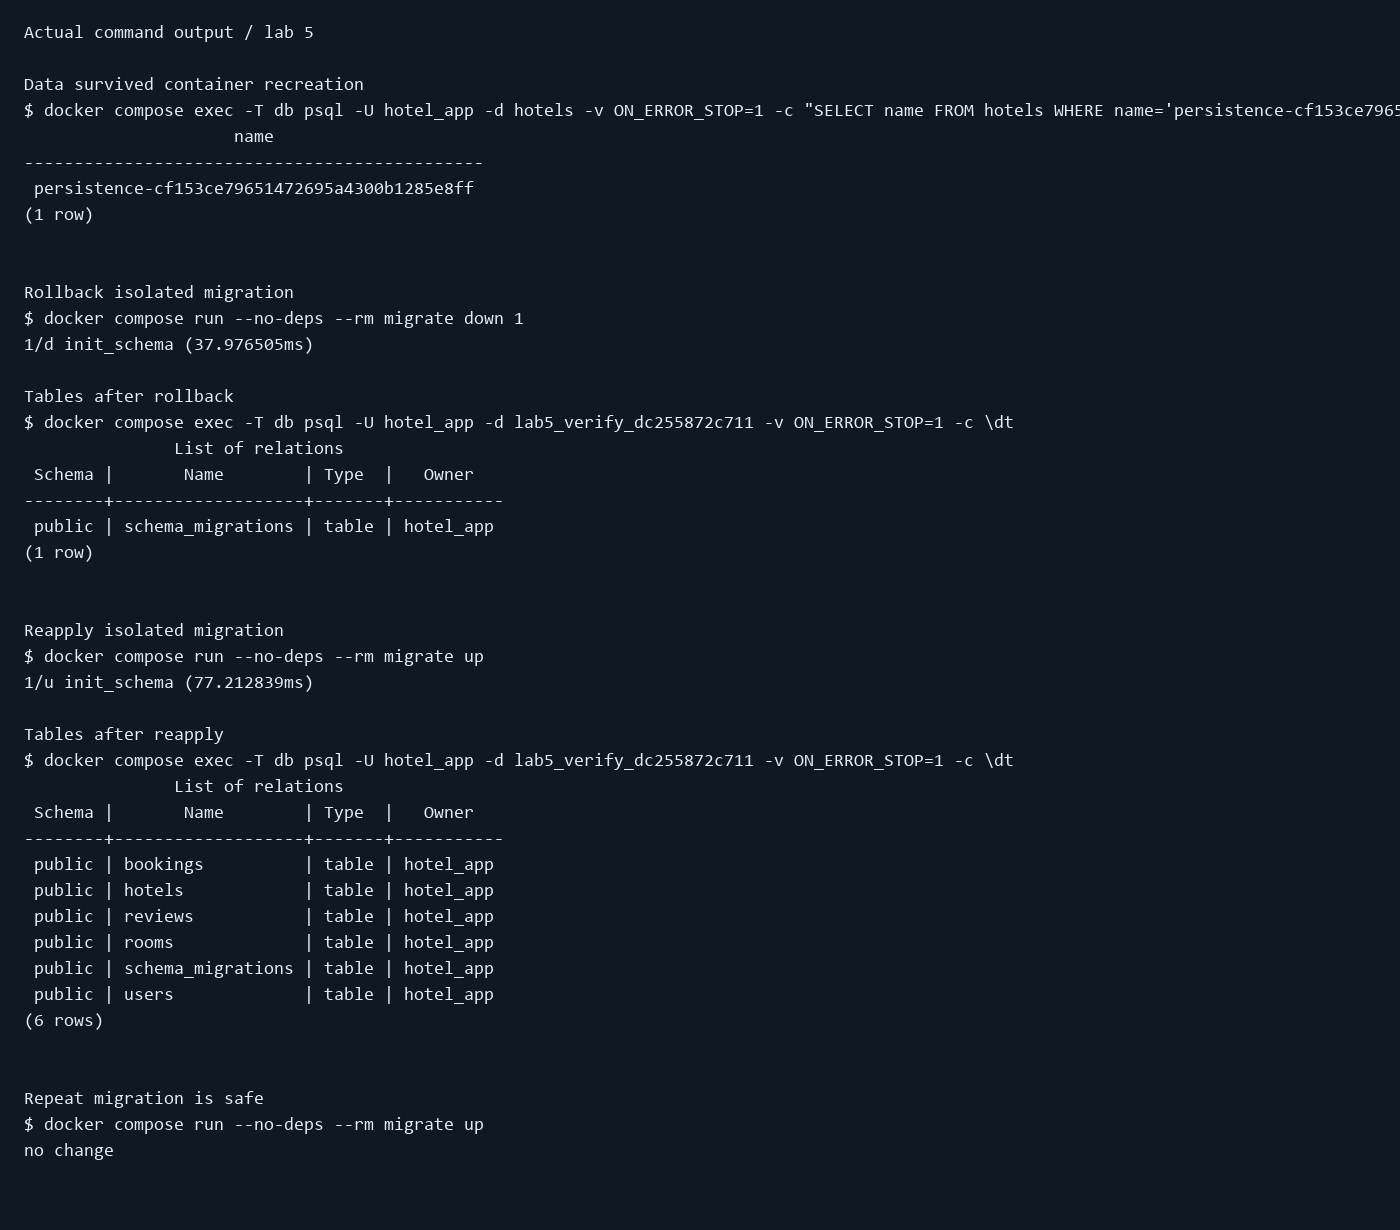
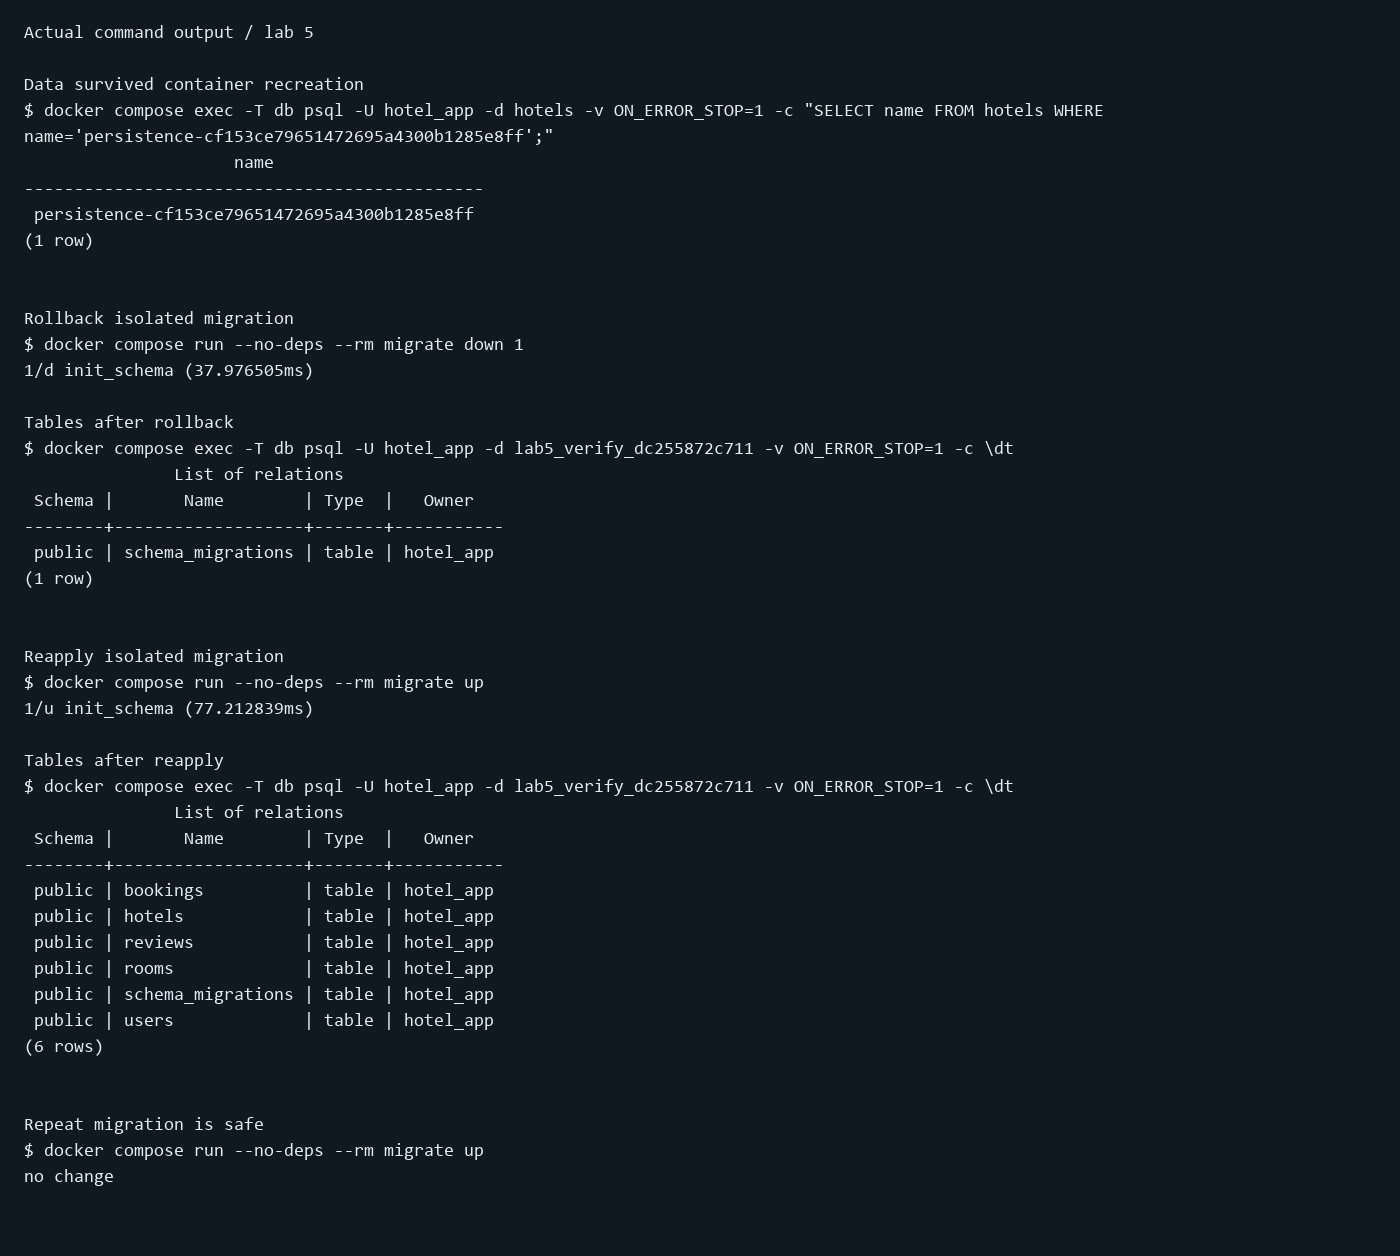
docs: improve verification output wrapping

diff --git a/scripts/build_report.py b/scripts/build_report.py
@@ -21,7 +21,8 @@ for name, checks in groups:
     lines = ["Actual command output / lab " + str(number), ""]
     for record in records:
         if record["check"] in checks:
-            lines.extend([record["check"], "$ " + record["command"]])
+            lines.append(record["check"])
+            lines.extend(textwrap.wrap("$ " + record["command"], 120, replace_whitespace=False, drop_whitespace=False))
             for line in record["output"].splitlines():
                 lines.extend(textwrap.wrap(line, 120, replace_whitespace=False, drop_whitespace=False) or [""])
             lines.append("")
